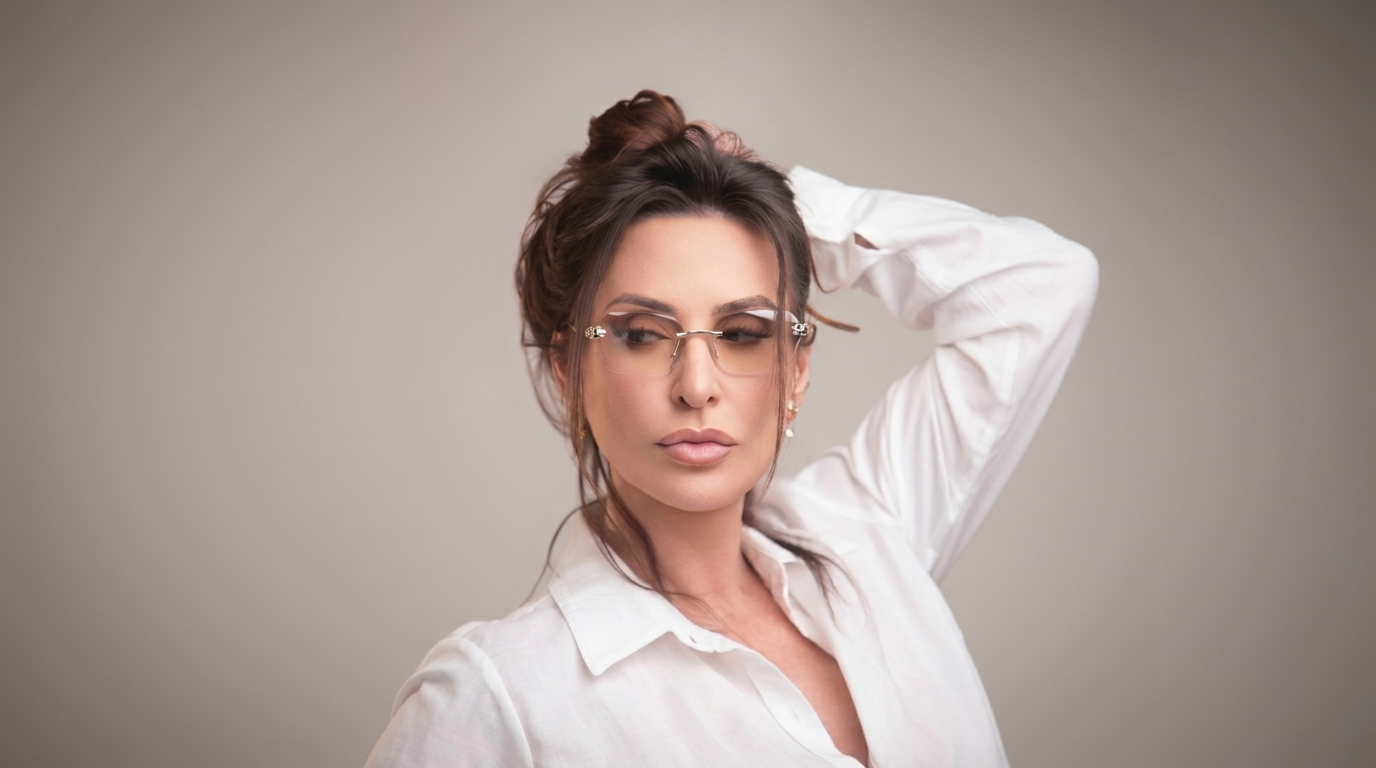
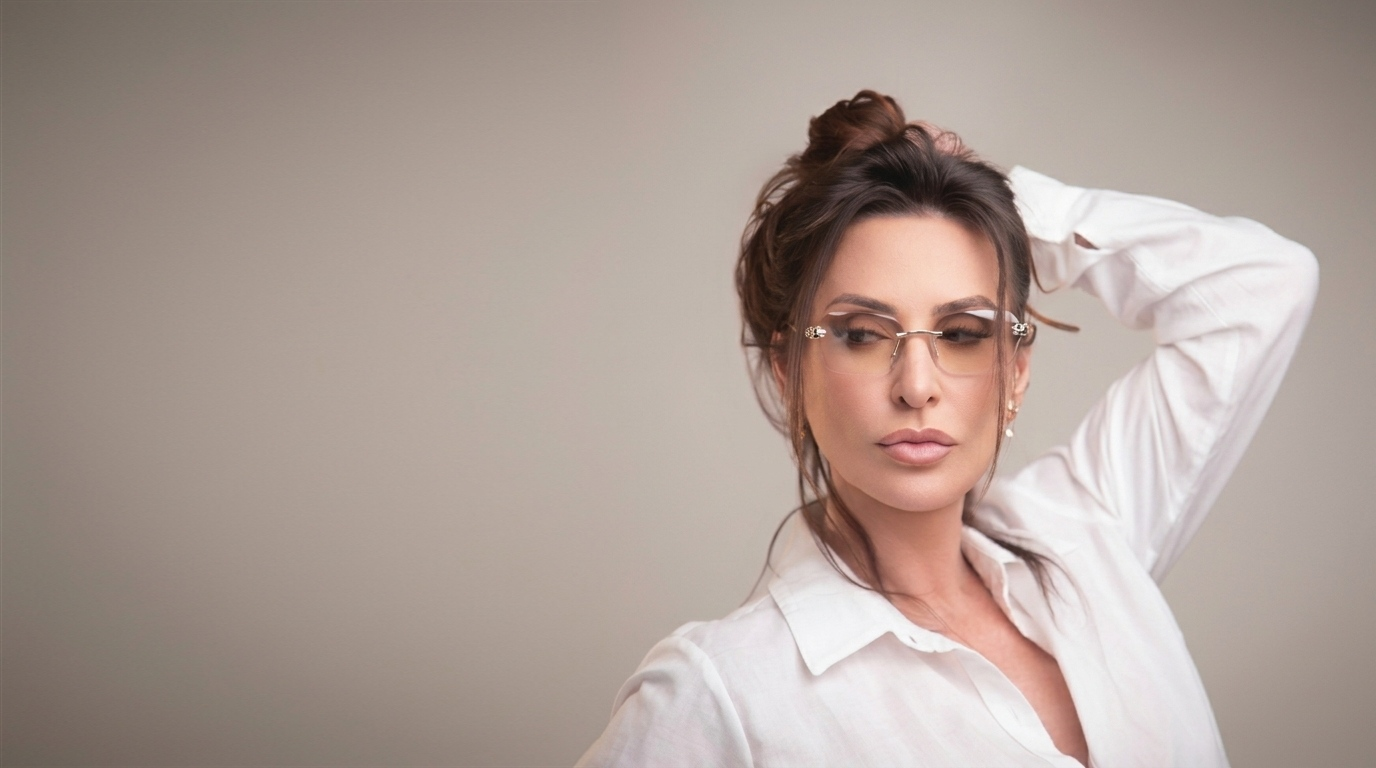
style(hero): shift Anna portrait further right and align Colecao Encantadas copy further left

diff --git a/src/components/EncantadasExperience.tsx b/src/components/EncantadasExperience.tsx
@@ -251,7 +251,7 @@ export function EncantadasExperience({ catalog, manifest }: EncantadasExperience
               <img
                 src="/images/ar/anna-hero-clean.jpg"
                 alt="Anna usando o óculos Pantera da coleção Encantadas"
-                className="h-full w-full object-cover object-[50%_22%] md:object-[58%_30%]"
+                className="h-full w-full object-cover object-[50%_22%] md:object-[right_30%]"
                 fetchPriority="high"
               />
             </picture>
@@ -263,7 +263,7 @@ export function EncantadasExperience({ catalog, manifest }: EncantadasExperience
           />
 
           <div className="pointer-events-none absolute inset-0 flex items-end md:items-center">
-            <div className="mx-auto w-full max-w-[1280px] px-5 pb-8 sm:px-6 sm:pb-12 md:px-10 md:pb-0">
+            <div className="w-full px-5 pb-8 sm:px-8 sm:pb-12 md:pl-12 lg:pl-20 xl:pl-24 md:pr-10 md:pb-0">
               <div data-hero-copy className="pointer-events-auto max-w-[440px]">
                 <p className="text-[11px] sm:text-[12px] font-medium uppercase tracking-[0.22em] sm:tracking-[0.26em] text-[#1d1d1f]/80">
                   Lançamento Exclusivo · Por Anna
